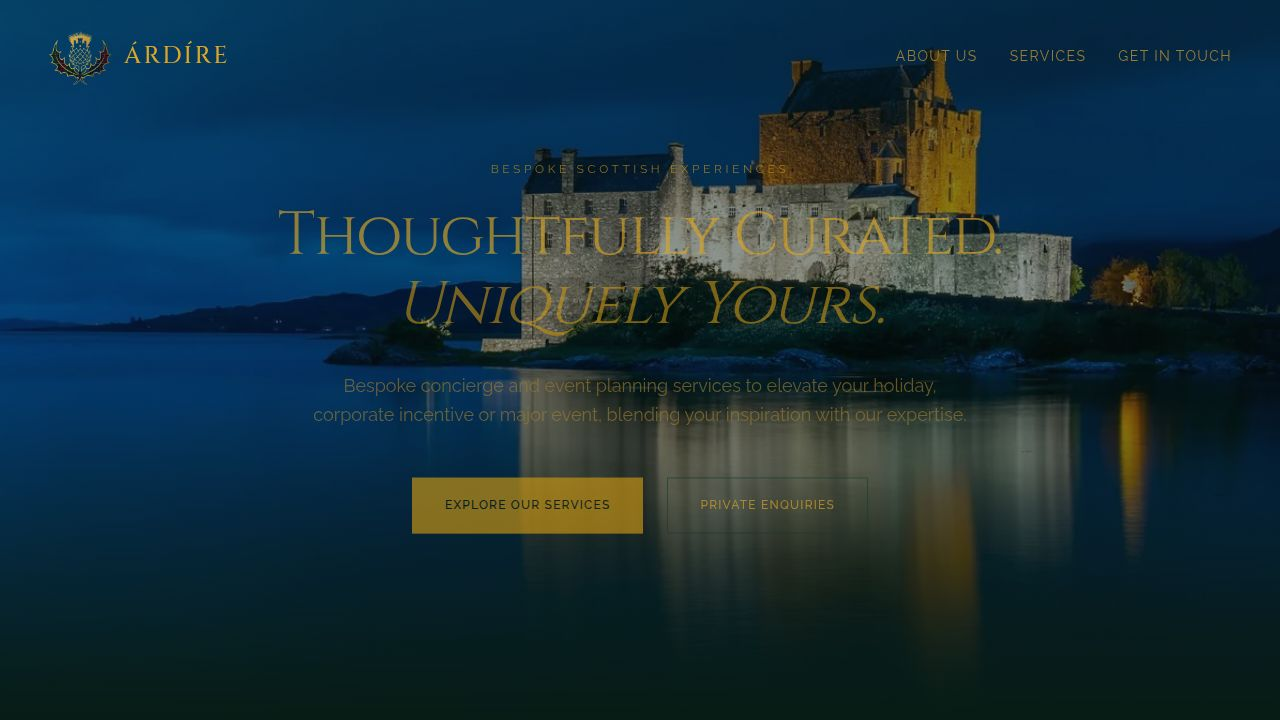
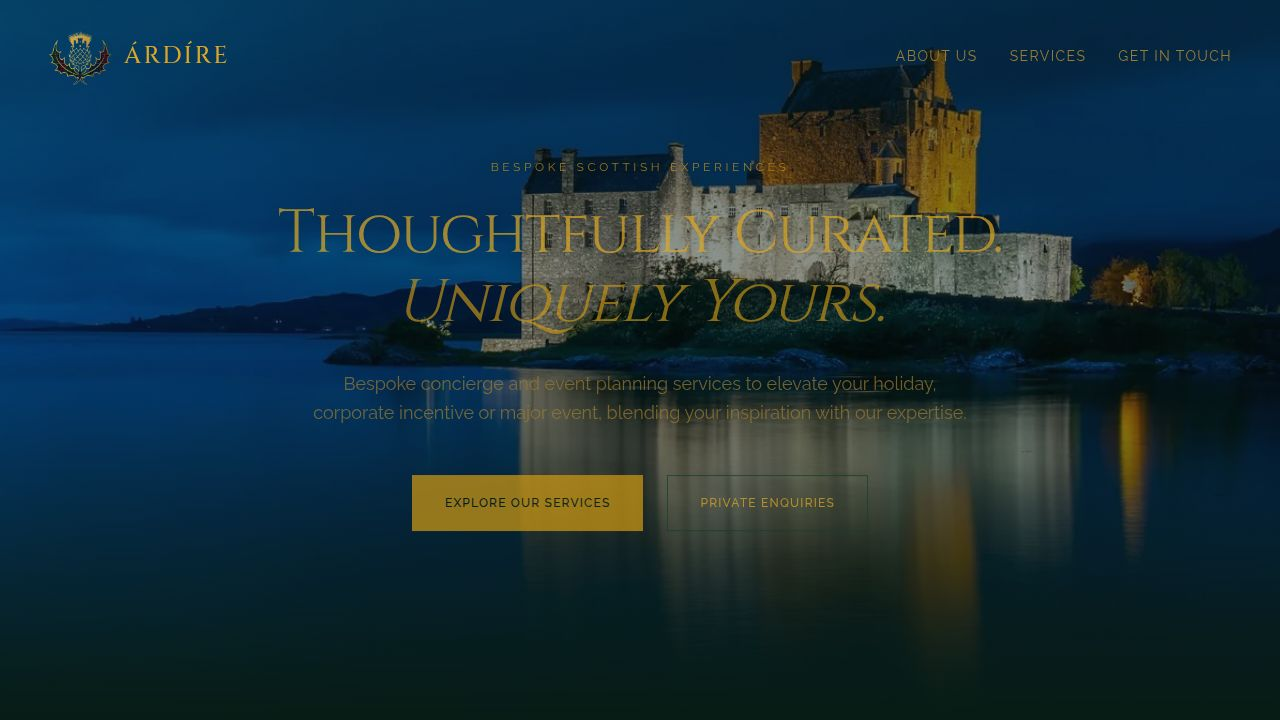
Improve website performance by loading fonts asynchronously
Optimize Google Fonts loading by implementing a non-render-blocking strategy using the "print media swap" technique, improving Largest Contentful Paint (LCP).

Replit-Commit-Author: Agent
Replit-Commit-Session-Id: 4be7c494-de01-4726-bd2d-796e126db087
Replit-Commit-Checkpoint-Type: full_checkpoint
Replit-Commit-Event-Id: 305821f4-6e4e-4e69-8f84-0682fd1386d7
Replit-Commit-Screenshot-Url: https://storage.googleapis.com/screenshot-production-us-central1/8b41926d-4b68-4360-acb2-30f3e24624b1/4be7c494-de01-4726-bd2d-796e126db087/7Tt8pmg
Replit-Helium-Checkpoint-Created: true

diff --git a/artifacts/ardire/index.html b/artifacts/ardire/index.html
@@ -54,10 +54,12 @@
     <link rel="icon" type="image/png" href="/images/logo.png" />
     <link rel="apple-touch-icon" href="/images/logo.png" />
 
-    <!-- Fonts -->
+    <!-- Fonts: non-blocking load via print media swap trick -->
     <link rel="preconnect" href="https://fonts.googleapis.com" />
     <link rel="preconnect" href="https://fonts.gstatic.com" crossorigin />
-    <link rel="stylesheet" href="https://fonts.googleapis.com/css2?family=Cinzel:wght@400;500;600;700&family=Raleway:ital,wght@0,300;0,400;0,500;0,600;1,300;1,400&display=swap" />
+    <link rel="preload" href="https://fonts.googleapis.com/css2?family=Cinzel:wght@400;500;600;700&family=Raleway:ital,wght@0,300;0,400;0,500;0,600;1,300;1,400&display=swap" as="style" onload="this.onload=null;this.rel='stylesheet'" />
+    <noscript><link rel="stylesheet" href="https://fonts.googleapis.com/css2?family=Cinzel:wght@400;500;600;700&family=Raleway:ital,wght@0,300;0,400;0,500;0,600;1,300;1,400&display=swap" /></noscript>
+    <!-- Preload above-fold images -->
     <link rel="preload" as="image" href="/images/hero-home.webp" />
 
     <!-- Structured Data: LocalBusiness -->